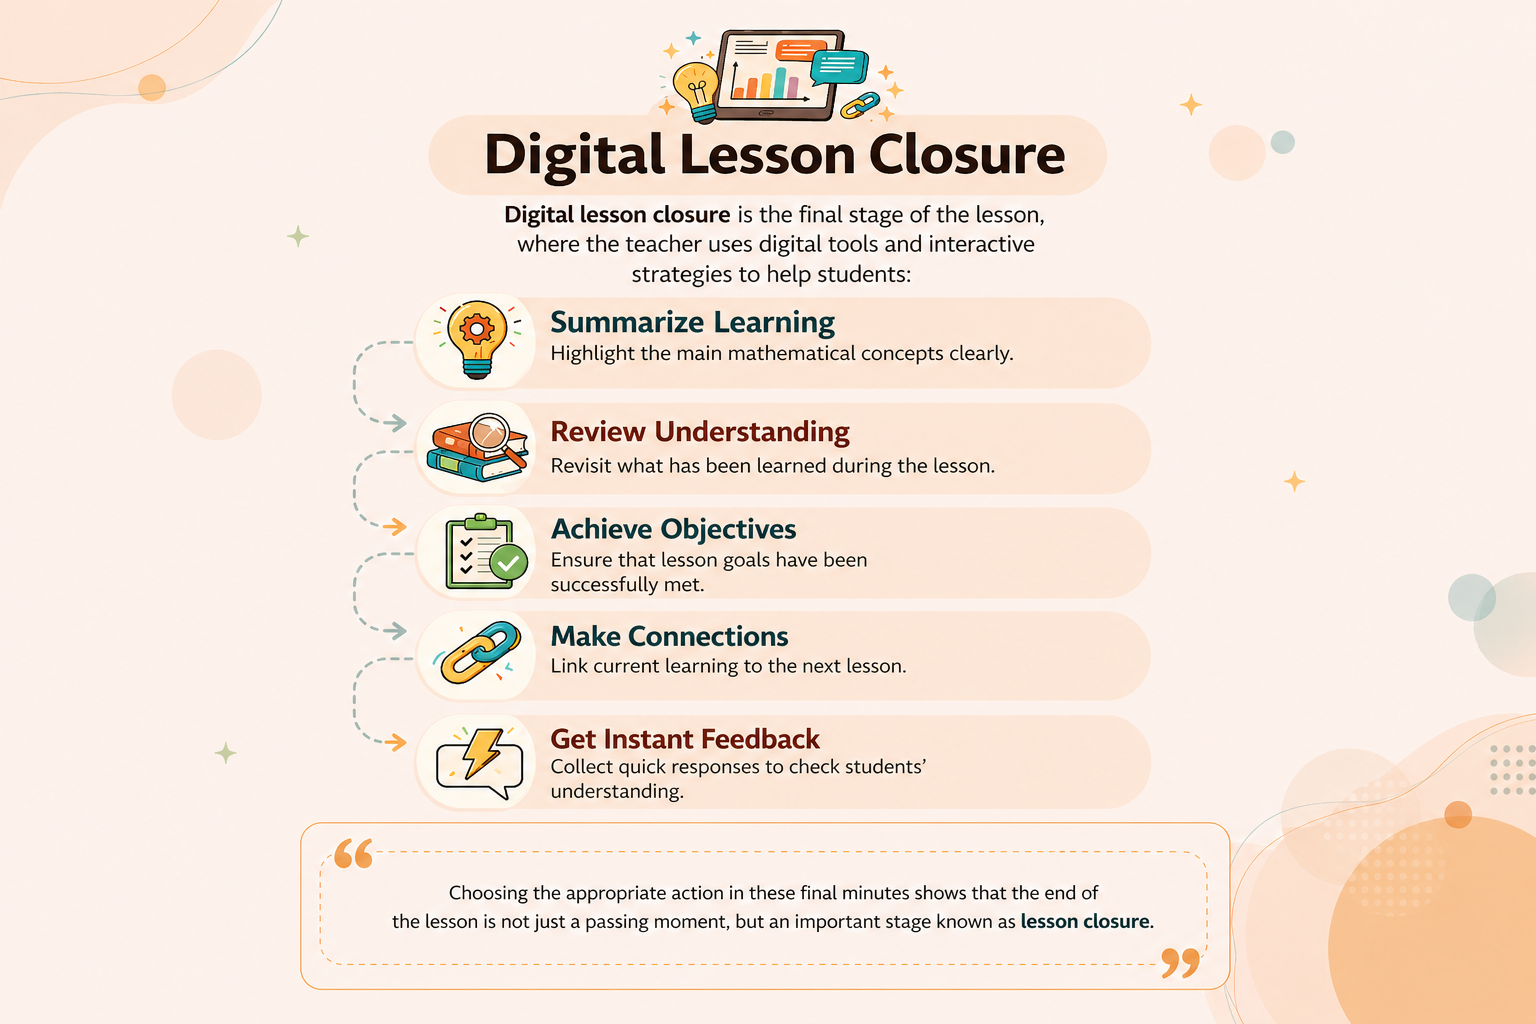
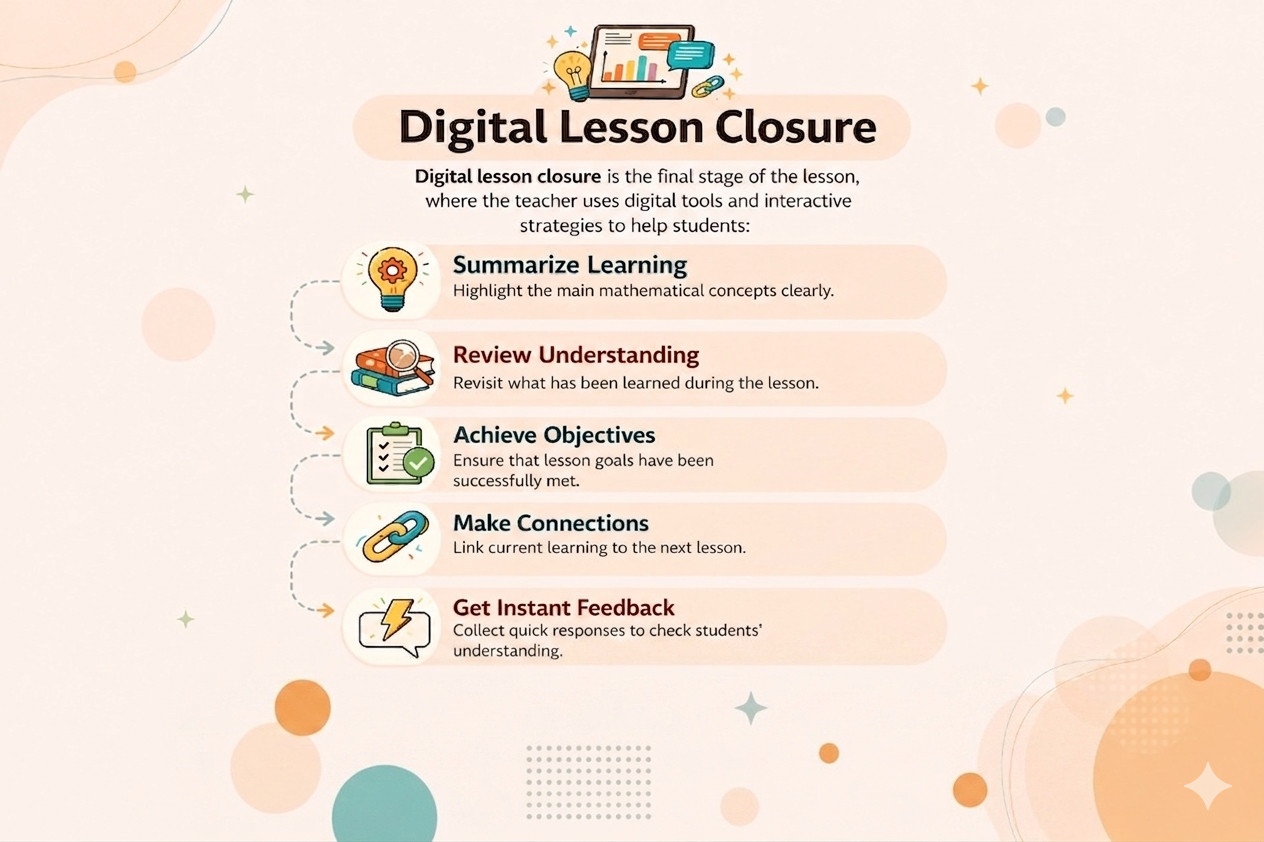
title

diff --git a/modules/closure-of-teaching/digital-lesson/index.html b/modules/closure-of-teaching/digital-lesson/index.html
@@ -64,6 +64,18 @@
           display: none;
         }
       }
+      .title {
+        margin: 30px 0 20px 0;
+        padding: 12px 24px;
+        border-radius: 0 30px 0 30px;
+        background: linear-gradient(135deg, #faefe9 0%, #f7e5db 100%);
+        border-left: 5px solid #e2a17a;
+        box-shadow: 0 4px 12px rgba(0, 0, 0, 0.05);
+        font-weight: 600;
+        color: #5a3e2b;
+        transition: all 0.3s ease;
+        letter-spacing: 0.5px;
+      }
     </style>
   </head>
   <body>
@@ -141,6 +153,11 @@
     <!--=============== MAIN ===============-->
     <main class="main" id="main">
       <div class="container">
+        <h2 class="title">
+          Choosing the appropriate action in these final minutes shows that the
+          end of the lesson is not just a passing moment, but an important stage
+          known as lesson closure.
+        </h2>
         <div class="pedagogical-knowledge">
           <img
             class="not-mopile"
